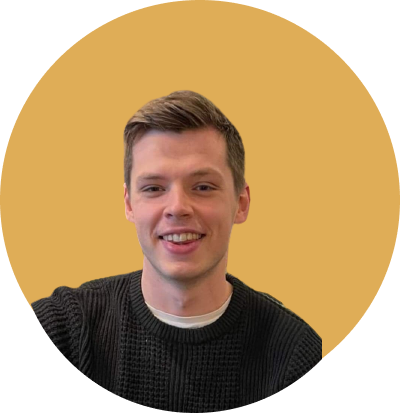
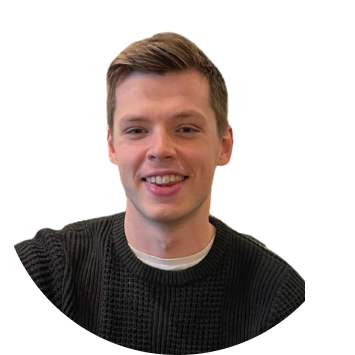
feat: image moves with scrolling

diff --git a/styles/Hero.module.css b/styles/Hero.module.css
@@ -4,10 +4,19 @@
   align-items: center;
 }
 
+.clipper {
+  padding: 20px;
+  height: 100%;
+  clip-path: circle(20% at 50% 50%);
+  background-color: #DFAD57;
+  display: flex;
+  align-items: center;
+}
+
 .heroContainer img {
-  display: block;
-  object-fit: contain;
-  aspect-ratio: 1/1;
+  position: sticky;
+  top: 40px;
+  width: 100%;
 }
 
 .about {
@@ -15,11 +24,6 @@
   flex-direction: column;
   justify-content: center;
   min-width: 65%;
-}
-
-.heroContainer img {
-  width: 100%;
-  overflow: auto;
 }
 
 .about p {
@@ -60,6 +64,20 @@
 
   .about {
     margin-top: 16px;
+  }
+
+  .clipper {
+    position: absolute;
+    top: 0;
+    align-items: baseline;
+    clip-path: circle(20% at 50% 20%);
+    margin-top: 40px;
+  }
+
+  .heroContainer img {
+    top: 0;
+    width: auto;
+    height: 40%;
   }
 }
 

diff --git a/components/Hero.tsx b/components/Hero.tsx
@@ -15,7 +15,9 @@ export default function Hero() {
             Bli kjent
           </a>
         </div>
-        <img alt="me" src="./me.png" />
+        <div className={styles.clipper}>
+          <img alt="me" src="./me.png" />
+        </div>
       </div>
     </>
   );
